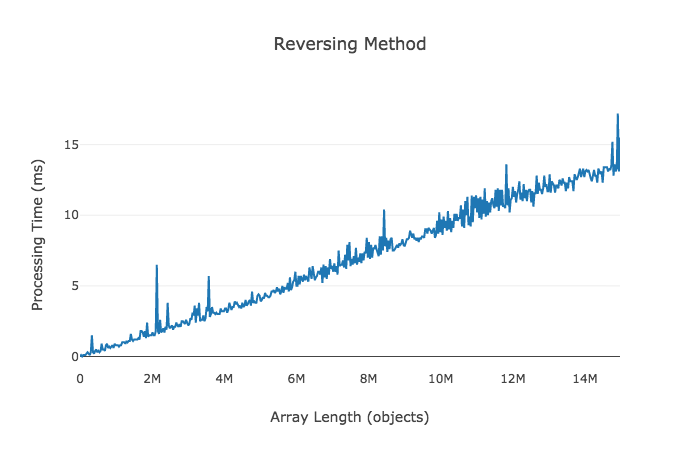
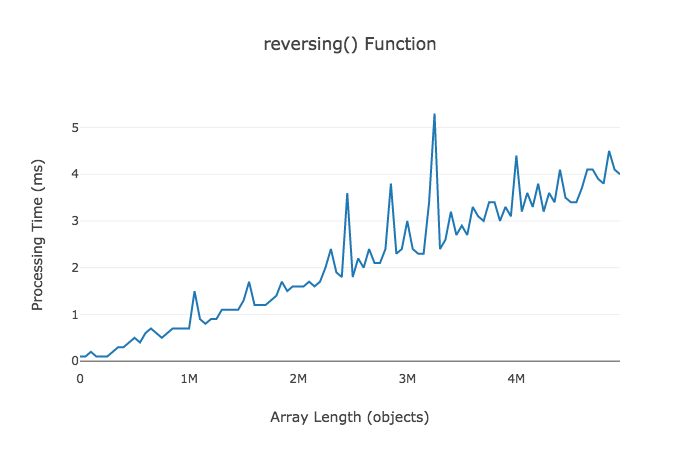
improvements to readme and graphs

diff --git a/index.html b/index.html
@@ -12,15 +12,36 @@
   </body>
   <script>
 
-    var graph = { x: [], y: [] }
+    var graph = { x: [], y: [], name: 'last()' }
 
     for (var i = 0; i < 5000000; i+= 50000) {
-      graph.y.push(Timer.prototype.timer(shuffle, generateArray(i)))
+      graph.y.push(Timer.prototype.timer(last, generateArray(i)))
       graph.x.push(i)
     };
 
+    var graph2 = { x: [], y: [], name: 'reversing()' }
+
+    for (var i = 0; i < 5000000; i+= 50000) {
+      graph2.y.push(Timer.prototype.timer(reversing, generateArray(i)))
+      graph2.x.push(i)
+    };
+
+    var graph3 = { x: [], y: [], name: 'sorting()' }
+
+    for (var i = 0; i < 5000000; i+= 50000) {
+      graph3.y.push(Timer.prototype.timer(sorting, generateArray(i)))
+      graph3.x.push(i)
+    };
+
+    var graph4 = { x: [], y: [], name: 'shuffle()' }
+
+    for (var i = 0; i < 5000000; i+= 50000) {
+      graph4.y.push(Timer.prototype.timer(shuffle, generateArray(i)))
+      graph4.x.push(i)
+    };
+
     var layout = {
-      title: 'Shuffling Method',
+      title: 'All Functions',
       xaxis: {
         title: 'Array Length (objects)',
         showgrid: false,
@@ -35,6 +56,15 @@
 
   	TESTER = document.getElementById('tester');
   	Plotly.plot( TESTER, [graph], layout, {
+  	margin: { t: 0 } } );
+  	TESTER = document.getElementById('tester');
+  	Plotly.plot( TESTER, [graph2], layout, {
+  	margin: { t: 0 } } );
+  	TESTER = document.getElementById('tester');
+  	Plotly.plot( TESTER, [graph3], layout, {
+  	margin: { t: 0 } } );
+  	TESTER = document.getElementById('tester');
+  	Plotly.plot( TESTER, [graph4], layout, {
   	margin: { t: 0 } } );
   </script>
 </html>

diff --git a/README.md b/README.md
@@ -1,13 +1,33 @@
 # Algorithmic Complexity
 
-## The last() Method
-![last](https://user-images.githubusercontent.com/44780483/53406017-fc36fc00-39b0-11e9-8fa6-f3e3fffce68d.png)
+**Big O notation** is used in to describe the performance or complexity of an algorithm. Big O specifically describes the worst-case scenario, and can be used to describe the execution time required or the space used (e.g. in memory or on disk) by an algorithm.
+![big_o_notation_graph](https://user-images.githubusercontent.com/44780483/53408265-014a7a00-39b6-11e9-91bd-1b60fb0b2e55.jpeg)
 
-## The reversing() Method
-![reversing](https://user-images.githubusercontent.com/44780483/53406383-be86a300-39b1-11e9-8d27-05dafbb75836.png)
 
-## The shuffle() Method
-![shuffle](https://user-images.githubusercontent.com/44780483/53406409-ca726500-39b1-11e9-9f9b-7a0aeb006eb2.png)
+This repo is designed to only measure the __processing time taken__ of some well known functions.
 
-## The sorting() Method
-![sorting](https://user-images.githubusercontent.com/44780483/53406425-d2caa000-39b1-11e9-8d67-fbbb382691da.png)
+## Initial 4 Benchmark Functions:
+### The last() Function
+![last](https://user-images.githubusercontent.com/44780483/53410240-1ece1280-39bb-11e9-929f-e0aff7919174.png)
+The size of the processing time hardly differs at all when using larger arrays. It simply takes the last item in the array and returns it to the user no matter if there are 2 or 2,000,000 objects in the array.
+> this follows an O(1) line, the most efficient algorithm there is. It will always execute in the same amount of time.
+
+### The reversing() Function
+![reversing](https://user-images.githubusercontent.com/44780483/53410241-1ece1280-39bb-11e9-83f5-56a18fbccb83.png)
+Anomalies can obviously be seen here, but if we try to follow an average line across our data we can see that when the array length reaches 5mil, the processing time is only 4 milliseconds.
+
+### The shuffle() Function
+![shuffle](https://user-images.githubusercontent.com/44780483/53410242-1f66a900-39bb-11e9-954a-6ff0b284fae6.png)
+Approximately 30 times slower than the reversing() function, but with a truer and more even graph.
+
+### The sorting() Function
+![sorting](https://user-images.githubusercontent.com/44780483/53410243-1f66a900-39bb-11e9-91b9-6514c33f1bae.png)
+The worst function I tested. This took around 2000 milliseconds for an array size of 5mil. Approximately 16 times slower than the shuffle() function. One main takeaway is the apparent drop in processing time when the array reaches a length of 1mil objects.
+
+## All Functions on One Graph
+![allfunctions](https://user-images.githubusercontent.com/44780483/53410987-4d4ced00-39bd-11e9-83bc-692b63b568ad.png)
+When comparing all the functions on the same graph we really see the true scale of how efficient they are, which you don't quite get as much when looking at them on their own. Here I can see the sorting() function clearly comes out as the worst performing. If I was to approximately rate the functions based on my array sizes against the Big O Complexity Chart they would be as follows:
+* last() - **O(1)**
+* reversing() - **O(log n)**
+* sorting() - **O(n log n)**
+* shuffle() - **O(log n) / O(n)**
